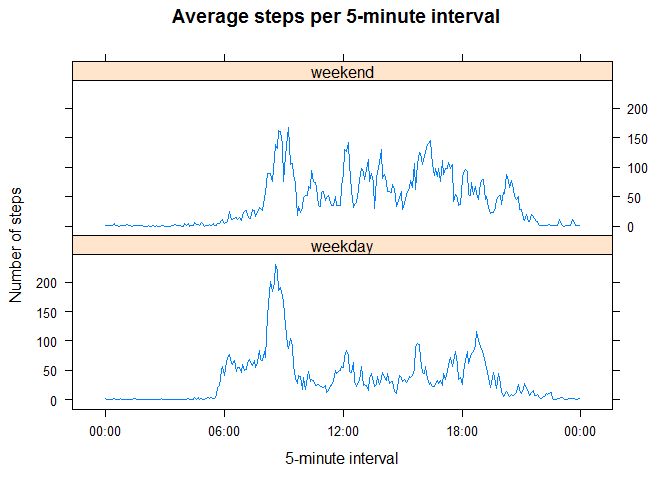
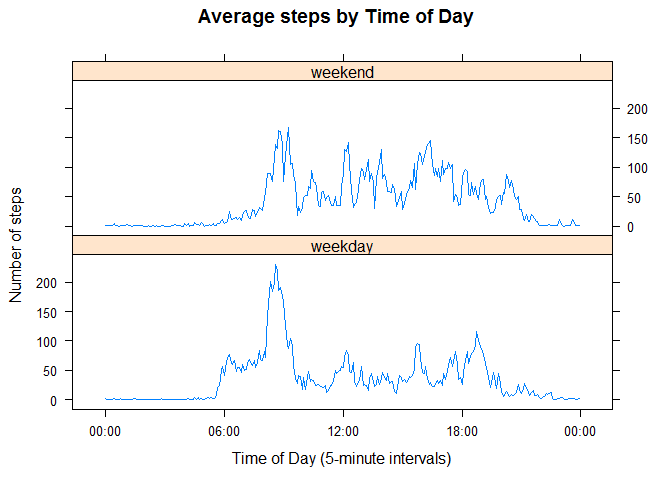
Correct axes labels

Changed region(s): [[0.25, 0.0, 0.75, 0.0625], [0.3438, 0.9375, 0.6875, 0.9688]]

diff --git a/PA1_template.html b/PA1_template.html
@@ -218,8 +218,8 @@ xyplot(mean ~ time | weekday,
        data = stepsByWeekday,
        type = &quot;l&quot;,
        layout = c(1,2),
-       main = &quot;Average steps per 5-minute interval&quot;,
-       xlab = &quot;5-minute interval&quot;,
+       main = &quot;Average steps by Time of Day&quot;,
+       xlab = &quot;Time of Day (5-minute intervals)&quot;,
        ylab = &quot;Number of steps&quot;,
       scales = list(
         x = list(
@@ -227,7 +227,7 @@ xyplot(mean ~ time | weekday,
         )
       )
 )</code></pre>
[2 lines of base64/hex data omitted]
 <div id="results-3" class="section level3">
 <h3>Results:</h3>
 <p>The number of steps appears to peak on Weekays around the 800th interval with lower levels of activity (generally below 100 steps per interval) over the rest of the day. On weekends, the number of steps start and end a bit later in the day and the activity level remains more consistent (around 150 steps per interval) throughout the day.</p>

diff --git a/PA1_template.md b/PA1_template.md
@@ -173,8 +173,8 @@ xyplot(mean ~ time | weekday,
        data = stepsByWeekday,
        type = "l",
        layout = c(1,2),
-       main = "Average steps per 5-minute interval",
-       xlab = "5-minute interval",
+       main = "Average steps by Time of Day",
+       xlab = "Time of Day (5-minute intervals)",
        ylab = "Number of steps",
       scales = list(
         x = list(
